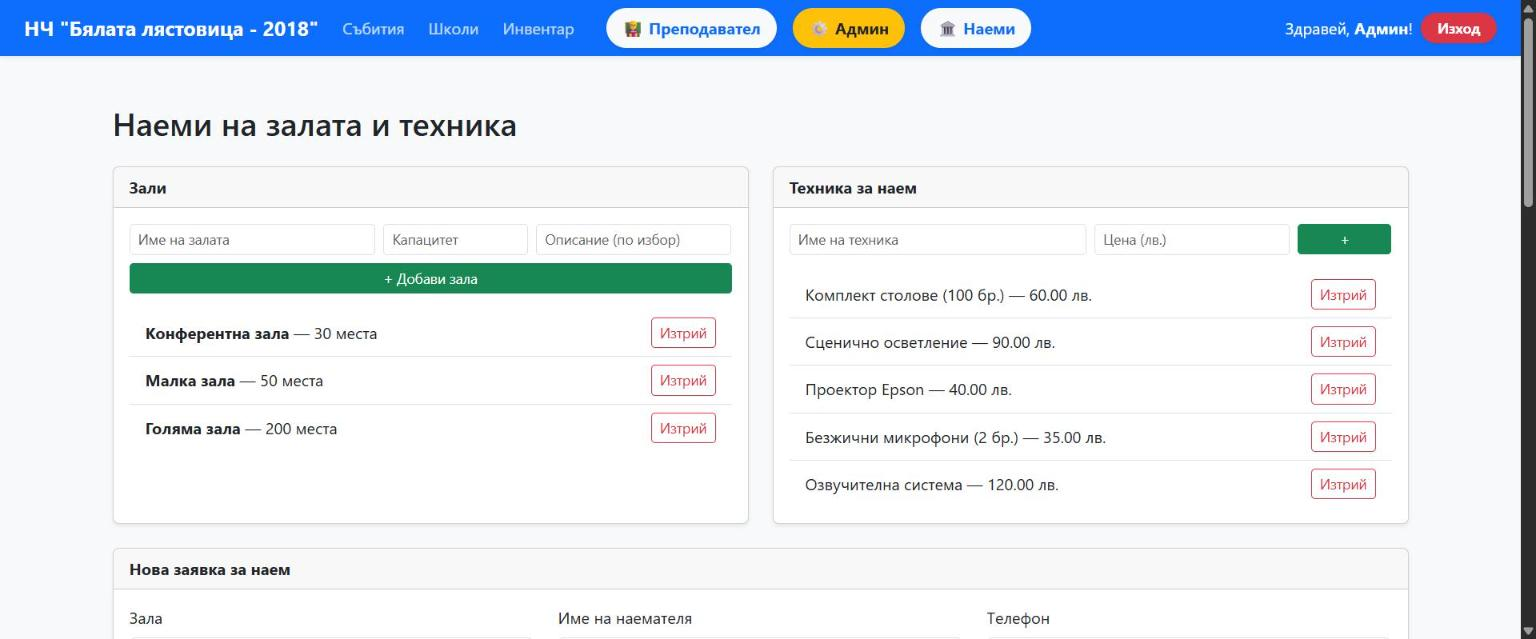
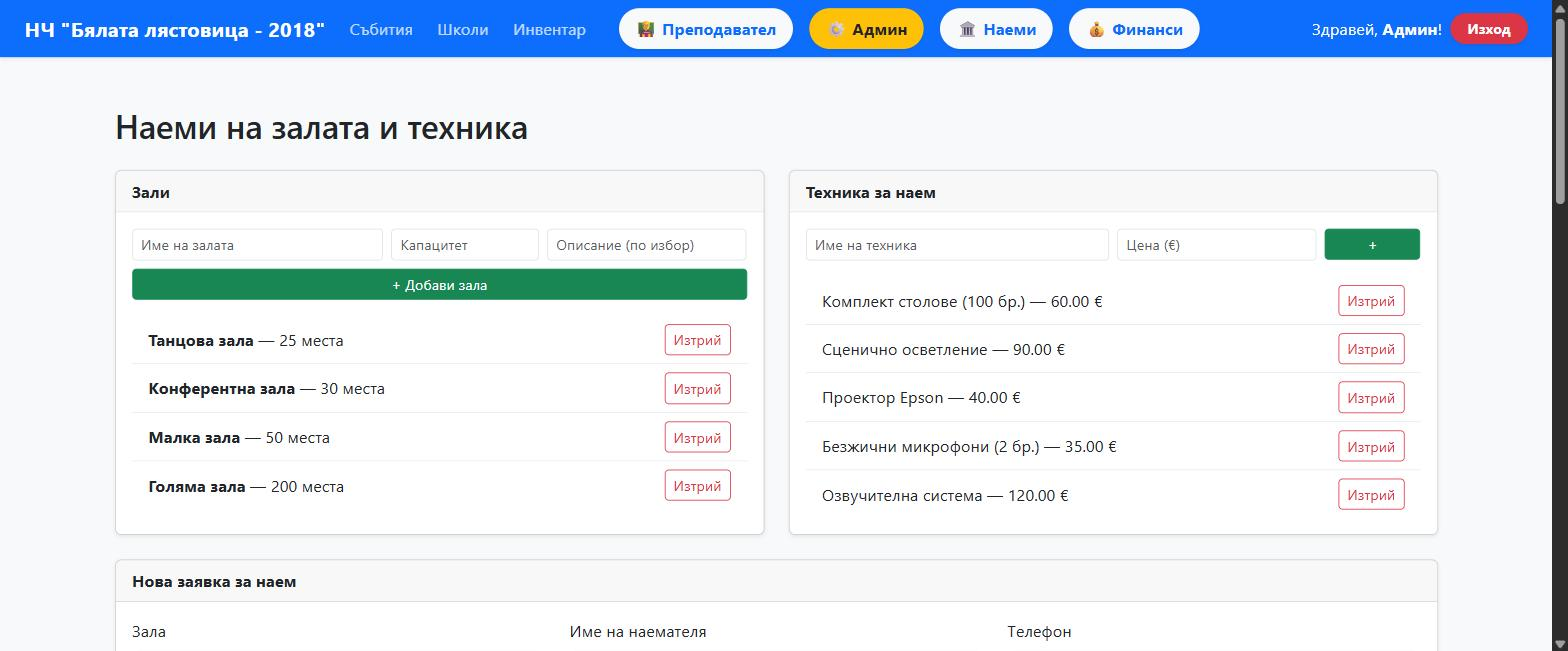
docs: refresh screenshots and highlight rental service in README
Update finance, admin-users, rentals, and schedule screenshots to
reflect the euro currency, translated roles, and new rental-income
section. Promote a rental-service screenshot into the top curated
section so the second Spring Boot application is visible at a glance,
and note that the finance report now includes rental income.

diff --git a/README.md b/README.md
@@ -55,7 +55,7 @@ The system is built with strict Role-Based Access Control (RBAC) via **Spring Se
 * **Events & Courses:** Curates the institution's portfolio of activities.
 * **Inventory Management:** Tracks traditional costumes, instruments, and props. Lends items to members and manages returns; overdue loans are flagged automatically.
 * **Hall & Equipment Rentals:** Manages the list of rentable halls and equipment, and processes external rental requests (pending → confirmed/cancelled → completed) — all handled by the separate `rental-service` microservice through a real-time Feign integration.
-* **Financial Module:** Accesses a global real-time financial report showing collected revenue and pending payments, alongside a detailed transaction history.
+* **Financial Module:** Accesses a global real-time financial report showing collected revenue and pending payments, alongside a detailed transaction history — combining both course-attendance fees and confirmed hall/equipment rental income (fetched live from `rental-service` via Feign).
 
 ---
 
@@ -157,7 +157,11 @@ JaCoCo HTML coverage reports are generated at `target/site/jacoco/index.html` in
 
 ### Admin Financial Report
 ![Financial Report](images/finance.png)
-*(Real-time aggregation of revenues and pending payments)*
+*(Real-time aggregation of revenues and pending payments — including confirmed hall/equipment rental income)*
+
+### Hall & Equipment Rentals (rental-service microservice)
+![Hall & Equipment Rentals](images/rentals.png)
+*(Managed through a real service-to-service Feign integration with the separate `rental-service` microservice)*
 
 ---
 
